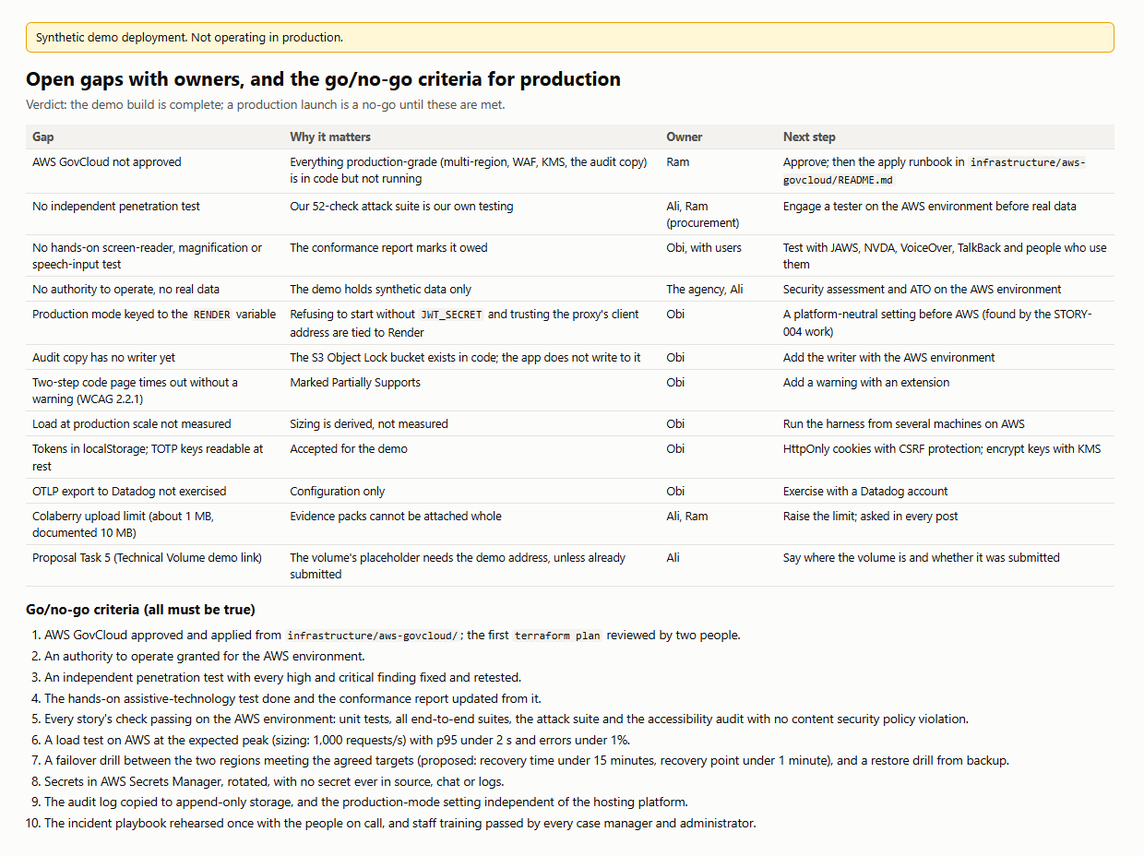
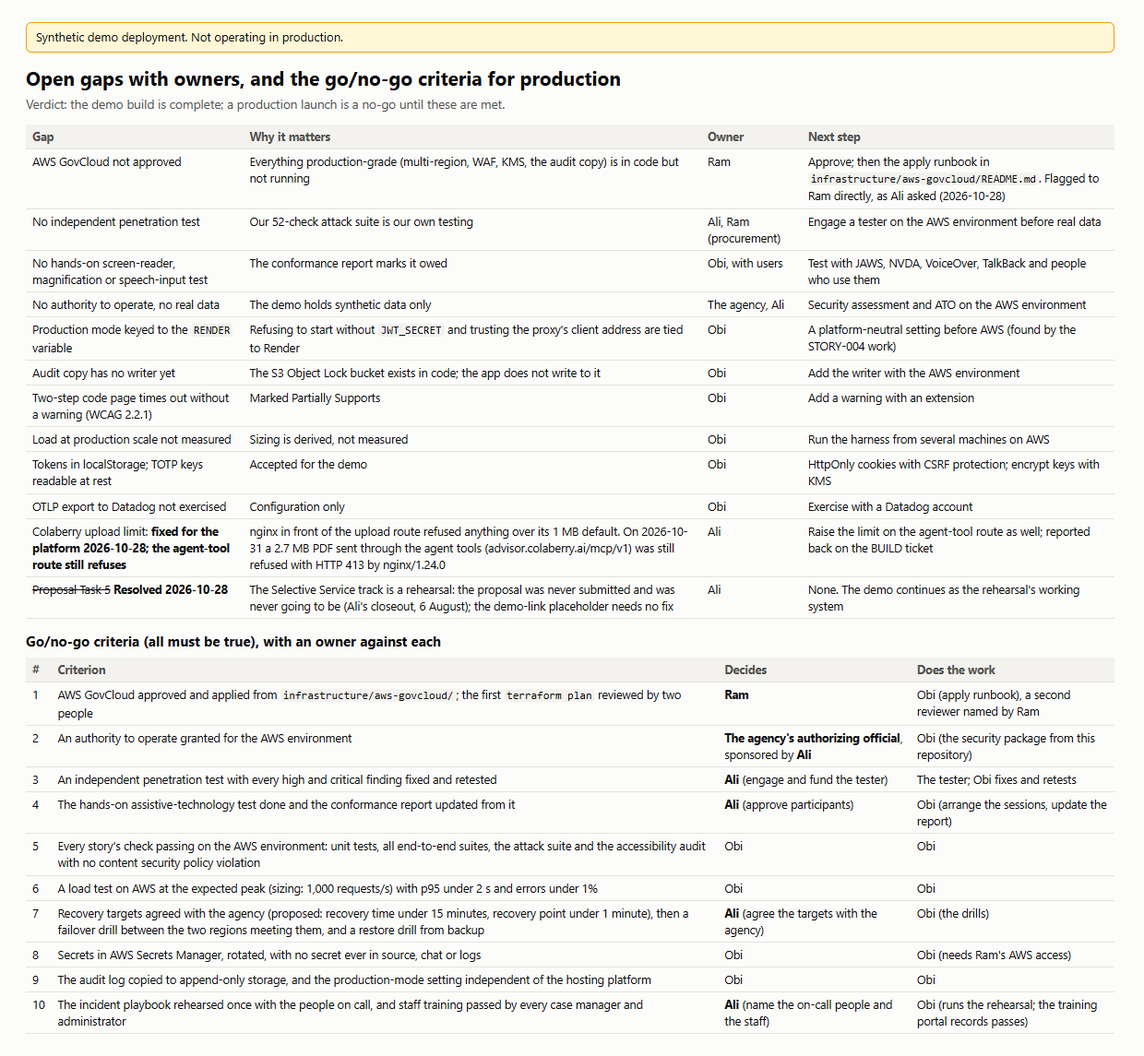
BUILD closed out: reply to Ali posted, go/no-go page with owners, framework v24
The readiness review's upload-limit row says what was found on 2026-10-31: the platform fix is live, but the agent-tool route
(advisor.colaberry.ai/mcp/v1) still refused a 2.7 MB PDF with HTTP 413 (reported back). The go/no-go evidence page now shows
the criteria as a table with who decides and who does the work, and renders struck-through rows. Framework: the closeout in
the timeline (#__recording_10462976750), what remains after the BUILD (the demo-prep week on the enterprise portal), links.

Changed region(s): [[0.0, 0.0, 0.9806, 0.9688], [0.6129, 0.125, 0.6435, 0.1562], [0.5823, 0.1562, 0.6129, 0.1875]]

diff --git a/sss-modernization-demo/docs/evidence/r3-m3/08-open-gaps-and-go-no-go.html b/sss-modernization-demo/docs/evidence/r3-m3/08-open-gaps-and-go-no-go.html
@@ -6,4 +6,4 @@
   pre { background: #f3f2ef; padding: 8px 10px; border-radius: 6px; font-size: 12px; white-space: pre-wrap; margin: 4px 0 10px; }
   ol { margin: 0; padding-left: 20px; } li { margin: 3px 0; }
   .banner { background: #fff7d6; border: 1px solid #eda100; padding: 6px 10px; border-radius: 6px; font-size: 13px; margin-bottom: 12px; }
-</style></head><body><div class="banner">Synthetic demo deployment. Not operating in production.</div><h1>Open gaps with owners, and the go/no-go criteria for production</h1><p class="sub">Verdict: the demo build is complete; a production launch is a no-go until these are met.</p><table><tr><th>Gap</th><th>Why it matters</th><th>Owner</th><th>Next step</th></tr><tr><td>AWS GovCloud not approved</td><td>Everything production-grade (multi-region, WAF, KMS, the audit copy) is in code but not running</td><td>Ram</td><td>Approve; then the apply runbook in <code>infrastructure/aws-govcloud/README.md</code></td></tr><tr><td>No independent penetration test</td><td>Our 52-check attack suite is our own testing</td><td>Ali, Ram (procurement)</td><td>Engage a tester on the AWS environment before real data</td></tr><tr><td>No hands-on screen-reader, magnification or speech-input test</td><td>The conformance report marks it owed</td><td>Obi, with users</td><td>Test with JAWS, NVDA, VoiceOver, TalkBack and people who use them</td></tr><tr><td>No authority to operate, no real data</td><td>The demo holds synthetic data only</td><td>The agency, Ali</td><td>Security assessment and ATO on the AWS environment</td></tr><tr><td>Production mode keyed to the <code>RENDER</code> variable</td><td>Refusing to start without <code>JWT_SECRET</code> and trusting the proxy's client address are tied to Render</td><td>Obi</td><td>A platform-neutral setting before AWS (found by the STORY-004 work)</td></tr><tr><td>Audit copy has no writer yet</td><td>The S3 Object Lock bucket exists in code; the app does not write to it</td><td>Obi</td><td>Add the writer with the AWS environment</td></tr><tr><td>Two-step code page times out without a warning (WCAG 2.2.1)</td><td>Marked Partially Supports</td><td>Obi</td><td>Add a warning with an extension</td></tr><tr><td>Load at production scale not measured</td><td>Sizing is derived, not measured</td><td>Obi</td><td>Run the harness from several machines on AWS</td></tr><tr><td>Tokens in localStorage; TOTP keys readable at rest</td><td>Accepted for the demo</td><td>Obi</td><td>HttpOnly cookies with CSRF protection; encrypt keys with KMS</td></tr><tr><td>OTLP export to Datadog not exercised</td><td>Configuration only</td><td>Obi</td><td>Exercise with a Datadog account</td></tr><tr><td>Colaberry upload limit (about 1 MB, documented 10 MB)</td><td>Evidence packs cannot be attached whole</td><td>Ali, Ram</td><td>Raise the limit; asked in every post</td></tr><tr><td>Proposal Task 5 (Technical Volume demo link)</td><td>The volume's placeholder needs the demo address, unless already submitted</td><td>Ali</td><td>Say where the volume is and whether it was submitted</td></tr></table><h2>Go/no-go criteria (all must be true)</h2><ol><li>AWS GovCloud approved and applied from <code>infrastructure/aws-govcloud/</code>; the first <code>terraform plan</code> reviewed by two people.</li><li>An authority to operate granted for the AWS environment.</li><li>An independent penetration test with every high and critical finding fixed and retested.</li><li>The hands-on assistive-technology test done and the conformance report updated from it.</li><li>Every story's check passing on the AWS environment: unit tests, all end-to-end suites, the attack suite and the accessibility audit with no content security policy violation.</li><li>A load test on AWS at the expected peak (sizing: 1,000 requests/s) with p95 under 2 s and errors under 1%.</li><li>A failover drill between the two regions meeting the agreed targets (proposed: recovery time under 15 minutes, recovery point under 1 minute), and a restore drill from backup.</li><li>Secrets in AWS Secrets Manager, rotated, with no secret ever in source, chat or logs.</li><li>The audit log copied to append-only storage, and the production-mode setting independent of the hosting platform.</li><li>The incident playbook rehearsed once with the people on call, and staff training passed by every case manager and administrator.</li></ol></body></html>
+</style></head><body><div class="banner">Synthetic demo deployment. Not operating in production.</div><h1>Open gaps with owners, and the go/no-go criteria for production</h1><p class="sub">Verdict: the demo build is complete; a production launch is a no-go until these are met.</p><table><tr><th>Gap</th><th>Why it matters</th><th>Owner</th><th>Next step</th></tr><tr><td>AWS GovCloud not approved</td><td>Everything production-grade (multi-region, WAF, KMS, the audit copy) is in code but not running</td><td>Ram</td><td>Approve; then the apply runbook in <code>infrastructure/aws-govcloud/README.md</code>. Flagged to Ram directly, as Ali asked (2026-10-28)</td></tr><tr><td>No independent penetration test</td><td>Our 52-check attack suite is our own testing</td><td>Ali, Ram (procurement)</td><td>Engage a tester on the AWS environment before real data</td></tr><tr><td>No hands-on screen-reader, magnification or speech-input test</td><td>The conformance report marks it owed</td><td>Obi, with users</td><td>Test with JAWS, NVDA, VoiceOver, TalkBack and people who use them</td></tr><tr><td>No authority to operate, no real data</td><td>The demo holds synthetic data only</td><td>The agency, Ali</td><td>Security assessment and ATO on the AWS environment</td></tr><tr><td>Production mode keyed to the <code>RENDER</code> variable</td><td>Refusing to start without <code>JWT_SECRET</code> and trusting the proxy's client address are tied to Render</td><td>Obi</td><td>A platform-neutral setting before AWS (found by the STORY-004 work)</td></tr><tr><td>Audit copy has no writer yet</td><td>The S3 Object Lock bucket exists in code; the app does not write to it</td><td>Obi</td><td>Add the writer with the AWS environment</td></tr><tr><td>Two-step code page times out without a warning (WCAG 2.2.1)</td><td>Marked Partially Supports</td><td>Obi</td><td>Add a warning with an extension</td></tr><tr><td>Load at production scale not measured</td><td>Sizing is derived, not measured</td><td>Obi</td><td>Run the harness from several machines on AWS</td></tr><tr><td>Tokens in localStorage; TOTP keys readable at rest</td><td>Accepted for the demo</td><td>Obi</td><td>HttpOnly cookies with CSRF protection; encrypt keys with KMS</td></tr><tr><td>OTLP export to Datadog not exercised</td><td>Configuration only</td><td>Obi</td><td>Exercise with a Datadog account</td></tr><tr><td>Colaberry upload limit: <strong>fixed for the platform 2026-10-28; the agent-tool route still refuses</strong></td><td>nginx in front of the upload route refused anything over its 1 MB default. On 2026-10-31 a 2.7 MB PDF sent through the agent tools (advisor.colaberry.ai/mcp/v1) was still refused with HTTP 413 by nginx/1.24.0</td><td>Ali</td><td>Raise the limit on the agent-tool route as well; reported back on the BUILD ticket</td></tr><tr><td><s>Proposal Task 5</s> <strong>Resolved 2026-10-28</strong></td><td>The Selective Service track is a rehearsal: the proposal was never submitted and was never going to be (Ali's closeout, 6 August); the demo-link placeholder needs no fix</td><td>Ali</td><td>None. The demo continues as the rehearsal's working system</td></tr></table><h2>Go/no-go criteria (all must be true), with an owner against each</h2><table><tr><th>#</th><th>Criterion</th><th>Decides</th><th>Does the work</th></tr><tr><td>1</td><td>AWS GovCloud approved and applied from <code>infrastructure/aws-govcloud/</code>; the first <code>terraform plan</code> reviewed by two people</td><td><strong>Ram</strong></td><td>Obi (apply runbook), a second reviewer named by Ram</td></tr><tr><td>2</td><td>An authority to operate granted for the AWS environment</td><td><strong>The agency's authorizing official</strong>, sponsored by <strong>Ali</strong></td><td>Obi (the security package from this repository)</td></tr><tr><td>3</td><td>An independent penetration test with every high and critical finding fixed and retested</td><td><strong>Ali</strong> (engage and fund the tester)</td><td>The tester; Obi fixes and retests</td></tr><tr><td>4</td><td>The hands-on assistive-technology test done and the conformance report updated from it</td><td><strong>Ali</strong> (approve participants)</td><td>Obi (arrange the sessions, update the report)</td></tr><tr><td>5</td><td>Every story's check passing on the AWS environment: unit tests, all end-to-end suites, the attack suite and the accessibility audit with no content security policy violation</td><td>Obi</td><td>Obi</td></tr><tr><td>6</td><td>A load test on AWS at the expected peak (sizing: 1,000 requests/s) with p95 under 2 s and errors under 1%</td><td>Obi</td><td>Obi</td></tr><tr><td>7</td><td>Recovery targets agreed with the agency (proposed: recovery time under 15 minutes, recovery point under 1 minute), then a failover drill between the two regions meeting them, and a restore drill from backup</td><td><strong>Ali</strong> (agree the targets with the agency)</td><td>Obi (the drills)</td></tr><tr><td>8</td><td>Secrets in AWS Secrets Manager, rotated, with no secret ever in source, chat or logs</td><td>Obi</td><td>Obi (needs Ram's AWS access)</td></tr><tr><td>9</td><td>The audit log copied to append-only storage, and the production-mode setting independent of the hosting platform</td><td>Obi</td><td>Obi</td></tr><tr><td>10</td><td>The incident playbook rehearsed once with the people on call, and staff training passed by every case manager and administrator</td><td><strong>Ali</strong> (name the on-call people and the staff)</td><td>Obi (runs the rehearsal; the training portal records passes)</td></tr></table></body></html>

diff --git a/docs/PROJECT-FRAMEWORK.html b/docs/PROJECT-FRAMEWORK.html
@@ -451,7 +451,7 @@ footer { margin-top: 40px; padding-top: 16px; border-top: 1px solid var(--rule);
           <tr><td class="num">2026-10-21</td><td>STORY-041: sign-out ends sessions on the server with no extra database round trip; throttling kept in the database; MFA recovery codes; bcrypt 6. Accepted: a 15-minute lockout delay, registration saying an address is taken, tokens in localStorage (production: HttpOnly cookies), one moderate dependency finding in the OPA runtime</td><td>Obi</td></tr>
           <tr><td class="num">2026-10-26</td><td>Secrets shared in chat on Sep 17 rotated: a new session key (generated in the browser, never shown) and a new database user, the old one deactivated with its tables kept; all data intact and live checks passing</td><td>Obi</td></tr>
           <tr><td class="num">2026-10-27</td><td>Training answers stay on the server; GovCloud infrastructure written and checked, not applied; readiness verdict: the demo is complete, production is a no-go until ten criteria are met</td><td>Obi</td></tr>
-          <tr><td class="num">2026-10-28</td><td>The proposal is a rehearsal, never submitted; the upload limit is fixed (10 MB); AWS is Ram's decision; a demo section on the enterprise portal for the demo itself</td><td>Ali</td></tr>
+          <tr><td class="num">2026-10-28</td><td>The proposal is a rehearsal, never submitted; the upload limit is fixed for the platform (the agent-tool route still refused 2.7 MB on Oct 31, reported); AWS is Ram's decision; a demo section on the enterprise portal for the demo itself</td><td>Ali</td></tr>
           <tr><td class="num">2026-10-21</td><td>The claude.ai Project reads this framework straight from the GitHub repo, current after every push</td><td>Obi</td></tr>
           <tr><td class="num">2026-10-20</td><td>R2 milestone 2: drift from the demo's own records (no LangSmith); fairness tested counterfactually without collecting protected data; OpenTelemetry built in and Datadog-ready over OTLP. The demo slide deck and briefing are updated at the end of R2</td><td>Obi</td></tr>
           <tr><td class="num">2026-10-20</td><td>The API key lives only in Render's environment and an Anthropic workspace; a key that was shown in a screenshot was revoked and replaced the same day</td><td>Obi</td></tr>
@@ -485,6 +485,7 @@ footer { margin-top: 40px; padding-top: 16px; border-top: 1px solid var(--rule);
       <li><time datetime="2026-10-16">Oct 16, 2026</time><span>The free Render database expired; from Oct 17 the API could not start (the site stayed up)</span></li>
       <li><time datetime="2026-10-19">Oct 19, 2026</time><span class="big">Database upgraded with all data kept. R2 milestone 1 in the demo: STORY-017, 018, 019, 020, 022, 023 and 024, the policy assistant with human oversight. Verified on the demo deployment (API 0ad66ad, site 82d3984): 59 routes in the access table, 21 migrations, all 32 protected GET routes refuse requests without a token, all 17 staff routes refuse a signed-in citizen, 26 of 26 page and role combinations pass WCAG 2.1 AA, 1,063 unit tests, 485 end-to-end API checks in 11 suites, evaluation 33 of 33</span></li>
       <li><time datetime="2026-10-21">Oct 21, 2026</time><span class="big">R2 milestone 2 in the demo: STORY-021, 025, 026–029; R2 complete (11 of 11). Verified on the demo deployment (commit 34b2393): 66 routes, 25 migrations, all 35 protected GET routes refuse requests without a token, trace ids on every response, memory about 110 MB of 512 MB; locally 1,645 unit tests, 592 end-to-end checks in 13 suites, 38 accessibility checks. Our review fixed the fairness search, malformed audit ids (500 to 400) and refusals logged as errors. The first real-model runs failed on uncited opening sentences; after a prompt fix and an outcome-based fairness criterion, the re-run passed: evaluation 100% (baseline), fairness 60 of 60 pairs; posted with screenshots</span></li>
+      <li><time datetime="2026-10-31">Oct 31, 2026</time><span class="big">BUILD closed out. Ali's answers taken in; the ten go/no-go criteria sent with an owner against each; AWS flagged to Ram; the GitHub repo sent for the portal project; deck (33 slides) and briefing updated for R3. Next: the demo-prep week on the enterprise portal (Oct 30 to Nov 6)</span></li>
       <li><time datetime="2026-10-27">Oct 27, 2026</time><span class="big">R3 milestone 3: training, readiness review with live rollback and restore drills, GovCloud infrastructure code. R3 complete; all 46 BUILD stories addressed. Verified on the demo deployment (commit ba10b59): 28 migrations, 71 routes, all 38 protected GET routes refuse requests without a token; locally 1,737 unit tests, 16 end-to-end suites, 43 accessibility checks; posted with screenshots</span></li>
       <li><time datetime="2026-10-21">Oct 21, 2026</time><span class="big">R3 milestone 2 in the demo: STORY-037 to 042. Verified on the demo deployment (commit ba6257c): 27 migrations, 68 routes, all 36 protected GET routes refuse requests without a token, security headers and the site's content policy live, live accessibility audit passes, the outside uptime check's first run passed; locally 1,708 unit tests, the attack suite 52 of 52, 15 end-to-end suites, 39 accessibility checks with 0 policy violations. Our review found and fixed tokens valid after sign-out, unlimited guessing, a timing difference that told registered addresses apart, and 500s for bad request bodies; posted with screenshots</span></li>
       <li><time datetime="2026-10-21">Oct 21, 2026</time><span class="big">R3 milestone 1 in the demo: STORY-030, 031, 032, 033, 034, 036 and R0 STORY-005. Verified on the demo deployment (commit f23de97): 67 routes, 26 migrations, all 36 protected GET routes refuse requests without a token, every staff route refuses a signed-in citizen, live accessibility audit passes; locally 1,697 unit tests, 14 end-to-end suites, the outage check 22 of 22. Our review found that a full connection pool closed every route as if the database were down (now a "very busy" 503 for that request only); posted with screenshots</span></li>
@@ -522,6 +523,8 @@ footer { margin-top: 40px; padding-top: 16px; border-top: 1px solid var(--rule);
     <ul class="links">
       <li><span class="k">Demo site</span><a href="https://sss-demo-frontend.onrender.com">sss-demo-frontend.onrender.com</a></li>
       <li><span class="k">Basecamp BUILD ticket</span><a href="https://app.basecamp.com/3945211/buckets/47346103/todolists/10068241172">Selective Service Modernization – BUILD</a></li>
+      <li><span class="k">Closeout reply to Ali</span><a href="https://app.basecamp.com/3945211/buckets/47346103/todolists/10068241172#__recording_10462976750">Go/no-go with owners, GitHub repo, AWS to Ram</a></li>
+      <li><span class="k">Demo section (portal)</span><a href="https://enterprise.colaberry.ai/portal/login">Colaberry enterprise portal: six demo-prep steps, Oct 30 to Nov 6</a></li>
       <li><span class="k">Latest milestone post</span><a href="https://app.basecamp.com/3945211/buckets/47346103/todolists/10068241172#__recording_10446079764">R3 milestone 3: training, readiness review, GovCloud infrastructure; R3 complete</a></li>
       <li><span class="k">Readiness review</span><a href="https://github.com/OBIANAMS04/sss-modernization-demo/blob/master/sss-modernization-demo/docs/READINESS-REVIEW.md">Go-live readiness review</a> · <a href="https://github.com/OBIANAMS04/sss-modernization-demo/tree/master/infrastructure/aws-govcloud">GovCloud infrastructure code</a> · <a href="https://github.com/OBIANAMS04/sss-modernization-demo/tree/master/sss-modernization-demo/docs/evidence/r3-m3">evidence</a></li>
       <li><span class="k">R3 milestone 2 post</span><a href="https://app.basecamp.com/3945211/buckets/47346103/todolists/10068241172#__recording_10429772066">R3 milestone 2: security, accessibility and operations</a></li>

diff --git a/docs/PROJECT-FRAMEWORK.md b/docs/PROJECT-FRAMEWORK.md
@@ -157,7 +157,7 @@ Captured from the demo application running the deployed code, with synthetic dat
 | 2026-10-21 | STORY-041: sign-out ends sessions on the server (session id in every token, checked in the per-request role read, no extra round trip); throttling in the database; address limits skip loopback callers (on Render every address comes from Cloudflare); MFA recovery codes; bcrypt 6. Accepted: account lockout as a delay of 15 minutes, registration saying an address is taken, tokens in localStorage (production: HttpOnly cookies), sprintf-js via the OPA runtime | Obi |
 | 2026-10-26 | Secrets exposed in chat on 2026-09-17 rotated: JWT_SECRET replaced with a 64-character random value generated inside the browser (never shown), and the database moved to a new user sss_demo_app_2026_10 through Render credential rotation, the old user deactivated (login revoked, its tables kept). Verified: API connected only as the new user, 30 tables and all data intact, live checks pass. Render dashboard changes are now made by Claude in the Playwright browser after the owner signs in | Obi |
 | 2026-10-27 | STORY-035: training answers stay on the server and are graded there, so a pass cannot be claimed from the browser; a module's version makes a changed module need passing again. STORY-004: written for GovCloud and checked statically; plan and apply wait on Ram. The readiness verdict: the demo is complete, production is a no-go until ten criteria are met | Obi |
-| 2026-10-28 | Ali: the Selective Service proposal is a rehearsal (closed out 6 August), never submitted; Task 5's placeholder needs no fix. The Colaberry upload limit was nginx's 1 MB default in front of the route; fixed and live, attachments take 10 MB. AWS GovCloud is Ram's decision, flagged to him directly. A demo section on the enterprise portal for the demo itself `[gov-2026-10-28-rehearsal-answer-and-upload-fix]` `[demo-section-2026-10-28]` | Ali |
+| 2026-10-28 | Ali: the Selective Service proposal is a rehearsal (closed out 6 August), never submitted; Task 5's placeholder needs no fix. The Colaberry upload limit was nginx's 1 MB default in front of the route; fixed for the platform (10 MB), though on 2026-10-31 the agent-tool route still refused 2.7 MB with HTTP 413 (reported back). AWS GovCloud is Ram's decision, flagged to him directly. A demo section on the enterprise portal for the demo itself `[gov-2026-10-28-rehearsal-answer-and-upload-fix]` `[demo-section-2026-10-28]` | Ali |
 | 2026-10-19 | The free Render database expired on 2026-10-16 and the API went down; `sss-demo-db` upgraded to the paid Basic plan ($6/month), which kept all data and does not expire | Obi |
 
 ---
@@ -188,14 +188,24 @@ Captured from the demo application running the deployed code, with synthetic dat
 | 2026-10-21 | **R2 milestone 2 in the demo: STORY-021, 025, 026, 027, 028, 029; R2 complete (11 of 11).** Verified on the demo deployment (commit 34b2393): 66 routes in the access table, 25 migrations, all 35 protected GET routes refuse requests without a token, every staff route refuses a signed-in citizen, trace ids on every response, server memory about 110 MB of 512 MB. Locally: 1,645 unit tests, 592 end-to-end API checks in 13 suites, 38 accessibility checks. Our own review: the search fix for counterfactual fairness (52 to 60 of 60 pairs, keeping the appeal case); malformed ids on the audit log were a 500 and are now a 400; refusals were logged as errors and are now warnings. The first real-model runs failed (grounded 84.8%; same level in 41 of 60 pairs) because the model sometimes opened with an uncited sentence of its own; the system prompt now forbids it, and the fairness criterion became the outcome the person gets, with level agreement read against a repeat (docs/R2-MILESTONE-2-PLAN.md). Re-run Oct 21: evaluation 100% on all four measures (marked as the baseline), fairness 60 of 60 pairs; posted with screenshots `#__recording_10426289975` |
 | 2026-10-21 | **R3 milestone 1 in the demo: STORY-030, 031, 032, 033, 034, 036 and R0 STORY-005.** Verified on the demo deployment (commit f23de97): 67 routes in the access table, 26 migrations, all 36 protected GET routes refuse requests without a token, every staff route refuses a signed-in citizen, live accessibility audit passes. Locally: 1,697 unit tests in 43 suites, 14 end-to-end suites, the outage check 22 of 22. Our own review: a full connection pool closed every route as if the database were down (now a "very busy" 503 for that request only); an end-to-end check depended on suite order; the dashboard's release list still said R2 was next. Posted with screenshots `#__recording_10429322876` |
 | 2026-10-21 | **R3 milestone 2 in the demo: STORY-037, 038, 039, 040, 041, 042.** Verified on the demo deployment (commit ba6257c): 27 migrations, 68 routes in the access table, all 36 protected GET routes refuse requests without a token, security headers and the site's content security policy live, live accessibility audit and live citizen check pass; the outside uptime check's first scheduled run passed (20:50 UTC). Locally: 1,708 unit tests, the attack suite 52 of 52, 15 end-to-end suites, 39 accessibility checks with 0 policy violations. Our own review found and fixed: tokens valid after sign-out, unlimited guessing, a timing difference that told registered addresses apart, 500s for malformed bodies and for objects at sign-in (the latter in this story's own code before it shipped). Posted with screenshots `#__recording_10429772066` |
+| 2026-10-31 | **BUILD closed out.** Ali's answers taken in (the proposal was a rehearsal; the upload fix; AWS to Ram). The ten go/no-go criteria sent with an owner against each (Ali's: 2, 3, 4, 7, 10; Ram's: 1); AWS flagged to Ram directly; the GitHub repo sent for the portal project. Deck v23 (33 slides) and briefing v8 with PDF updated for R3. The agent-tool upload route still refused a 2.7 MB file (HTTP 413), reported. Posted `#__recording_10462976750` |
 | 2026-10-27 | **R3 milestone 3: STORY-035, 043, 044, 045, 046 and R0 STORY-004; R3 complete, all 46 BUILD stories addressed.** Verified on the demo deployment (commit ba10b59): 28 migrations, 71 routes in the access table, all 38 protected GET routes refuse requests without a token. Locally: 1,737 unit tests, 16 end-to-end suites, 43 accessibility checks with no policy violation. Drills on the live demo: rollback 32 s, forward 58 s; export restored in 10.5 s with 0 errors. The Render-only url.parse warning stopped after the bcrypt 6 upgrade (none in three traced restarts). Posted with screenshots `#__recording_10446079764` |
 | 2026-10-20 | **Claude answers live.** The first key was not scoped to a workspace (the API answered 400; the logs now say why a request is refused); a workspace key fixed it. Evaluation against the real model: 33 of 33, all four thresholds met. The history now says why passages were shown (AI off, unavailable, a limit) instead of always "AI answers are off". Verified on the demo deployment (commit 1f71923); posted with screenshots `#__recording_10425206951` |
 
-Basecamp posts: R0 final `#__recording_10312647276` · guards `#__recording_10355304599` · STORY-006 `#__recording_10362153151` · STORY-007 `#__recording_10363503258` · Ali's approval `#__recording_10365688982` · Ali's access `#__recording_10375070502` · STORY-008 `#__recording_10375183698` · STORY-009 `#__recording_10395976909` · STORY-010 `#__recording_10396171859` · STORY-011 `#__recording_10397764209` · STORY-012 `#__recording_10398133067` · milestone STORY-003, 013–016 `#__recording_10404013551` · R2 milestone 1 `#__recording_10425206951` · R2 milestone 2 `#__recording_10426289975` · R3 milestone 1 `#__recording_10429322876` · R3 milestone 2 `#__recording_10429772066` · R3 milestone 3 `#__recording_10446079764` (BUILD ticket https://app.basecamp.com/3945211/buckets/47346103/todolists/10068241172)
+Basecamp posts: R0 final `#__recording_10312647276` · guards `#__recording_10355304599` · STORY-006 `#__recording_10362153151` · STORY-007 `#__recording_10363503258` · Ali's approval `#__recording_10365688982` · Ali's access `#__recording_10375070502` · STORY-008 `#__recording_10375183698` · STORY-009 `#__recording_10395976909` · STORY-010 `#__recording_10396171859` · STORY-011 `#__recording_10397764209` · STORY-012 `#__recording_10398133067` · milestone STORY-003, 013–016 `#__recording_10404013551` · R2 milestone 1 `#__recording_10425206951` · R2 milestone 2 `#__recording_10426289975` · R3 milestone 1 `#__recording_10429322876` · R3 milestone 2 `#__recording_10429772066` · R3 milestone 3 `#__recording_10446079764` · closeout reply `#__recording_10462976750` (BUILD ticket https://app.basecamp.com/3945211/buckets/47346103/todolists/10068241172)
 
 ---
 
-## 7. Risks and follow-ups
+## 7. What remains after the BUILD
+
+The build is closed out: all 46 stories are addressed and the production go/no-go list has owners. What remains is the demo itself:
+Ali set up a demo section on the Colaberry enterprise portal (https://enterprise.colaberry.ai/portal/login, signed in with the
+Yahoo address by a link sent there), project "Selective Service System Modernization (rehearsal demo)", with six demo-prep steps
+from 30 October to 6 November (Project Introduction, Working-System Demo, AI Visual Presentation, Stakeholder Update, Final
+Showcase, Demo Day). Recordings are handed in as links (Drive or OneDrive "anyone with the link", or YouTube Unlisted). The deck
+and the briefing are the material for those steps.
+
+## 7b. Risks and follow-ups
 
 | Risk / follow-up | Impact | Action |
 |---|---|---|

diff --git a/sss-modernization-demo/docs/READINESS-REVIEW.md b/sss-modernization-demo/docs/READINESS-REVIEW.md
@@ -78,7 +78,7 @@ Production targets are in `../FAILOVER.md` (to be confirmed with the agency: rec
 | Load at production scale not measured | Sizing is derived, not measured | Obi | Run the harness from several machines on AWS |
 | Tokens in localStorage; TOTP keys readable at rest | Accepted for the demo | Obi | HttpOnly cookies with CSRF protection; encrypt keys with KMS |
 | OTLP export to Datadog not exercised | Configuration only | Obi | Exercise with a Datadog account |
-| ~~Colaberry upload limit~~ **Resolved 2026-10-28** | nginx in front of the upload route refused anything over its 1 MB default | Ali | Fixed and live: attachments take the full 10 MB |
+| Colaberry upload limit: **fixed for the platform 2026-10-28; the agent-tool route still refuses** | nginx in front of the upload route refused anything over its 1 MB default. On 2026-10-31 a 2.7 MB PDF sent through the agent tools (advisor.colaberry.ai/mcp/v1) was still refused with HTTP 413 by nginx/1.24.0 | Ali | Raise the limit on the agent-tool route as well; reported back on the BUILD ticket |
 | ~~Proposal Task 5~~ **Resolved 2026-10-28** | The Selective Service track is a rehearsal: the proposal was never submitted and was never going to be (Ali's closeout, 6 August); the demo-link placeholder needs no fix | Ali | None. The demo continues as the rehearsal's working system |
 
 ## Go/no-go criteria for a production launch
